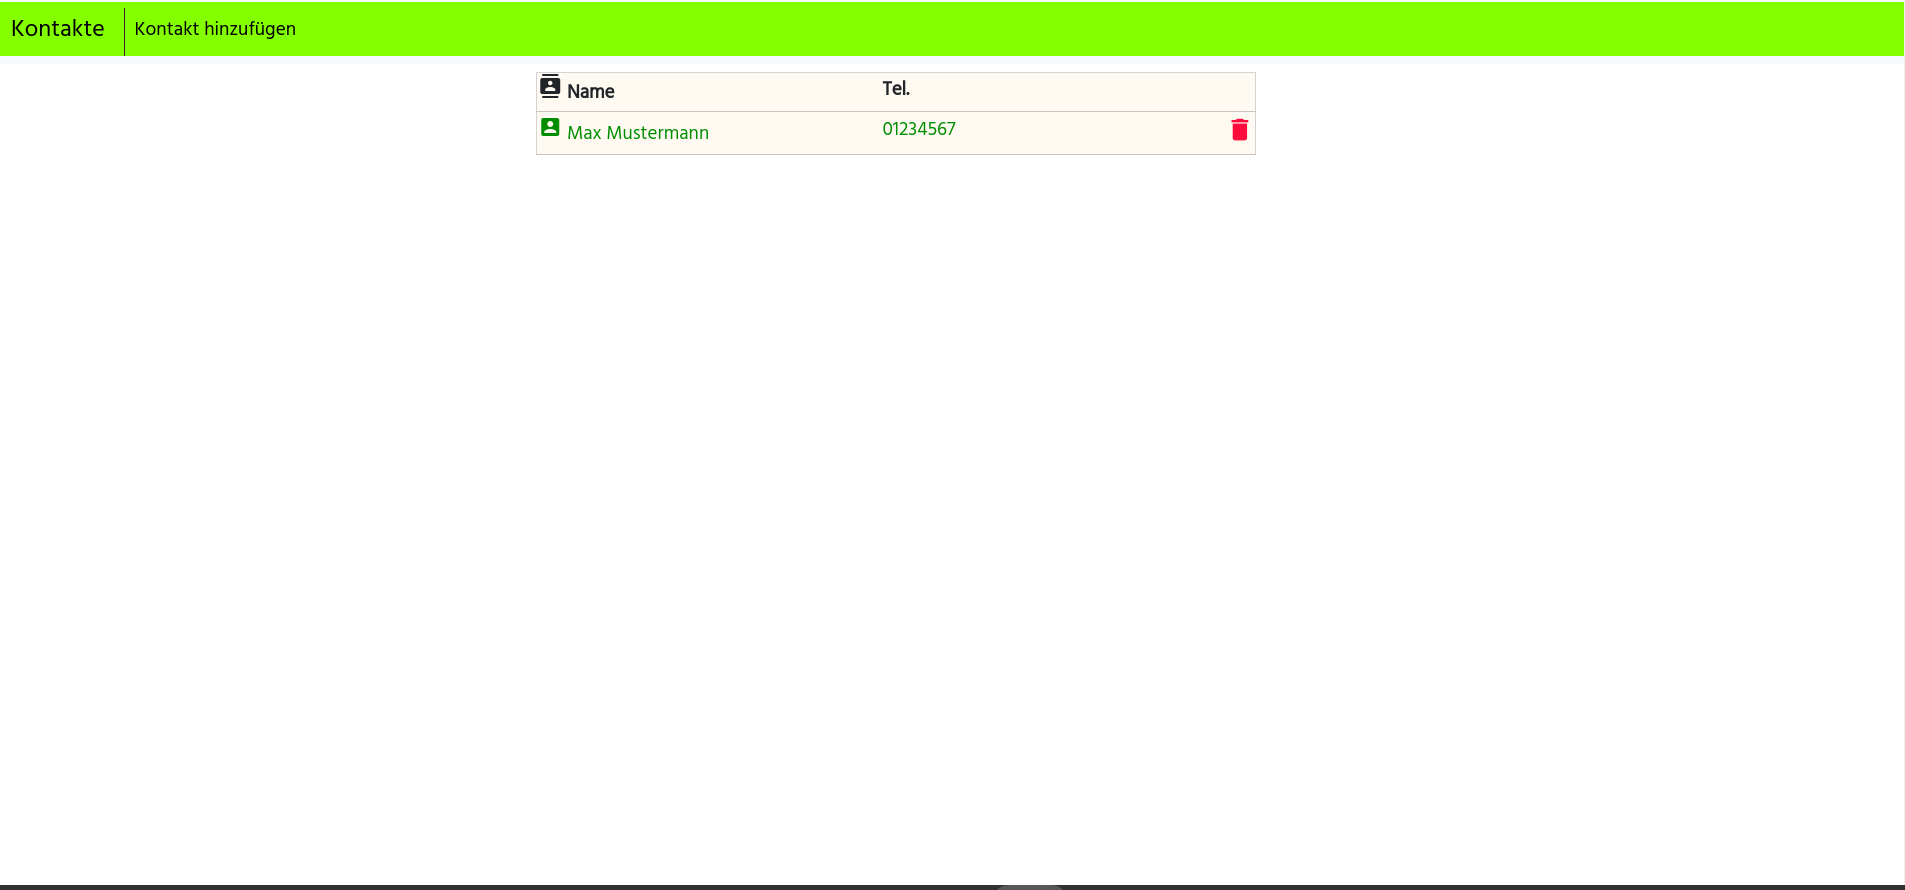
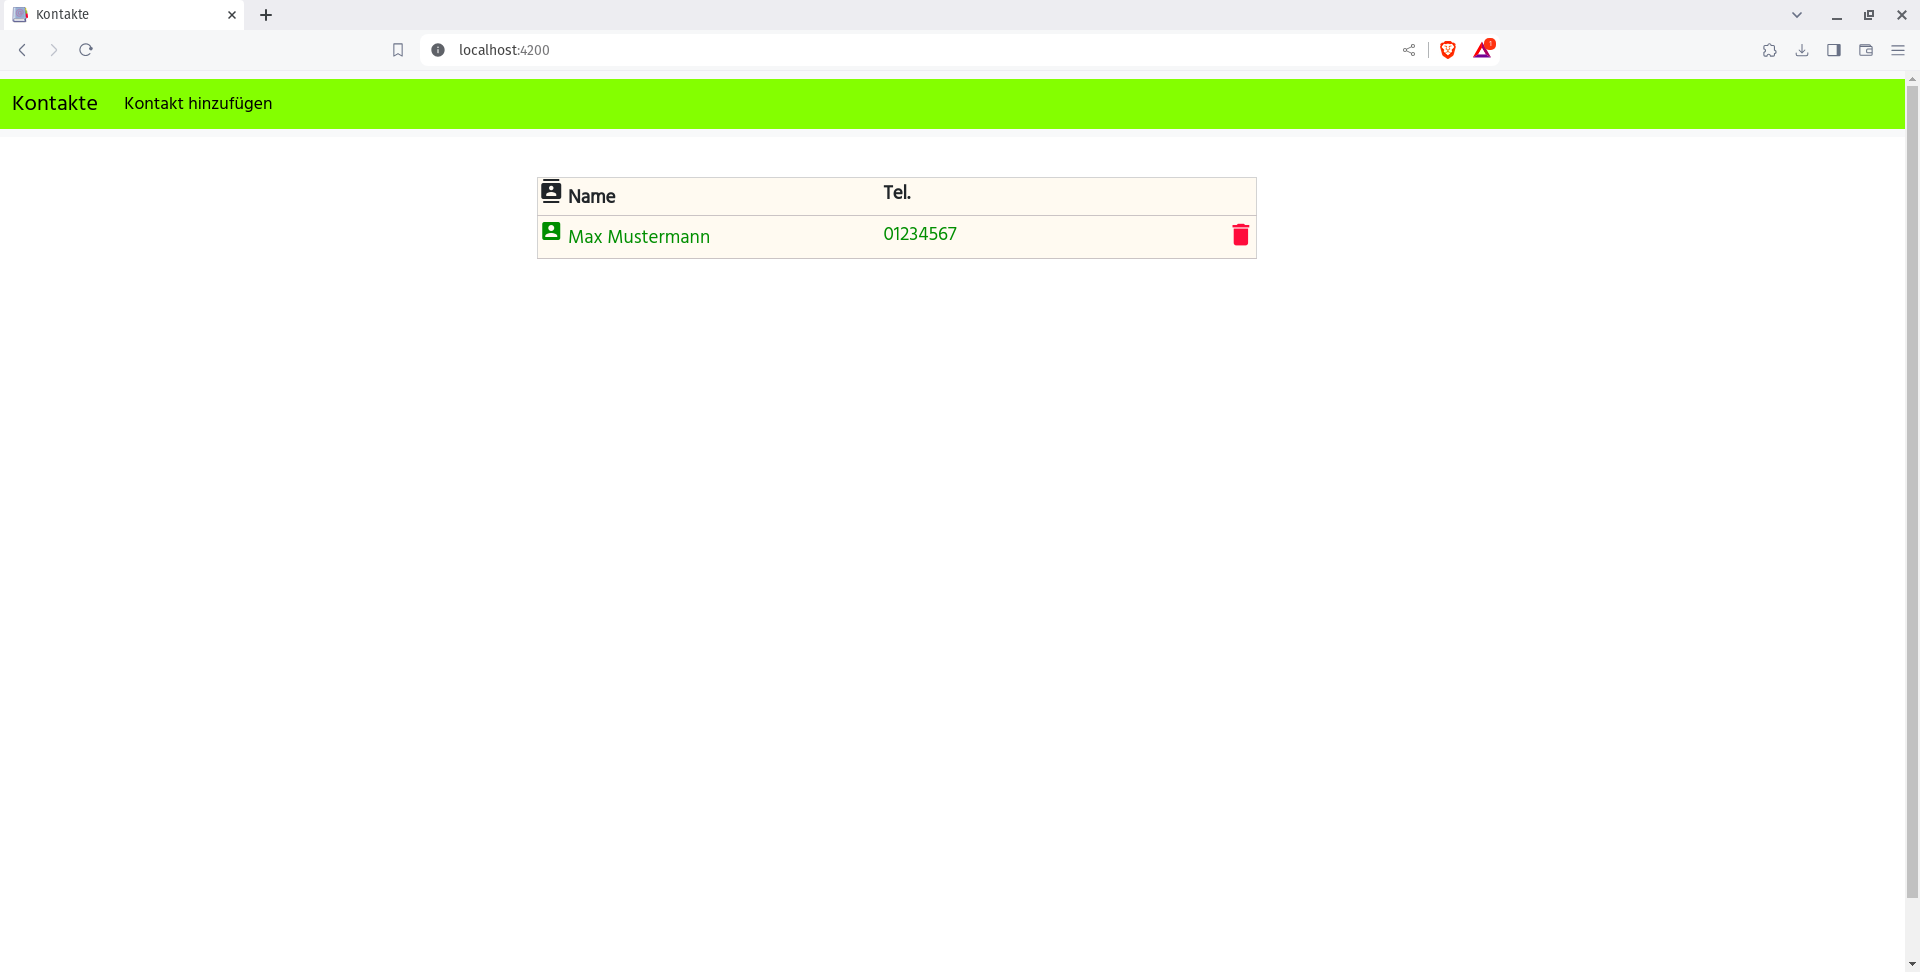
update

diff --git a/src/app/components/contact-list/contact-list.component.scss b/src/app/components/contact-list/contact-list.component.scss
@@ -12,7 +12,7 @@ table {
     font-size: 19px;
     max-width: 90%;
     margin-left: 10%;
-    margin-top: 1%;
+    margin-top: 40px;
     border: 1px solid lightgray;
     background-color: rgb(255, 249, 242);
     width: 800px;

diff --git a/src/app/components/header/header.component.scss b/src/app/components/header/header.component.scss
@@ -3,13 +3,8 @@ div {
 
 }
 a{
-    zoom: 1.2;
+    zoom: 1.1;
     margin-top: 5px;
    
 }
 
-
-.nav-link{
-    border-left: 1px solid rgb(54, 46, 46);
-    border-collapse: collapse;
-}
